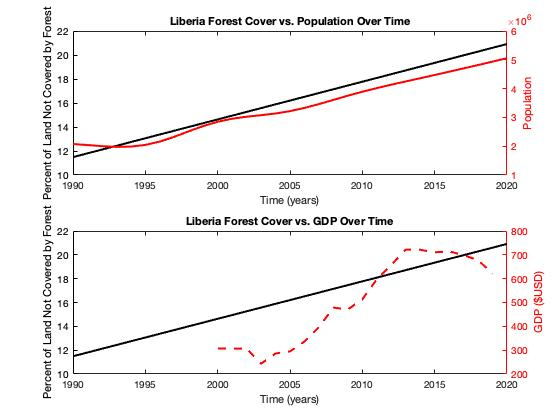
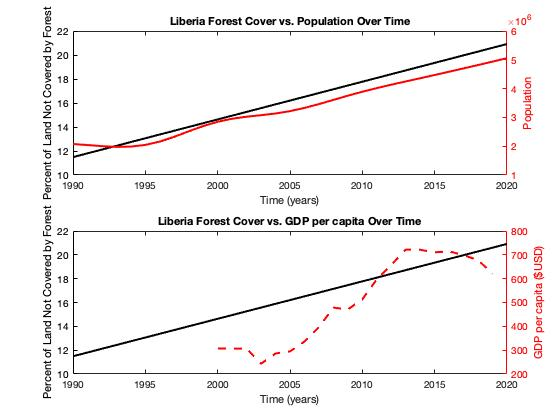
Actual? Presentation Code

Changed region(s): [[0.2732, 0.4952, 0.7589, 0.5571], [0.9411, 0.5881, 0.9714, 0.8667]]

diff --git a/Final_Project_Human_Population_and_Deforestation.m b/Final_Project_Human_Population_and_Deforestation.m
@@ -176,12 +176,12 @@ hold on
 subplot(2,1,2)
 yyaxis left
 plot(years, (100-Forest_US), 'k', 'LineWidth', 2)
-title('United States Forest Cover vs. GDP Over Time');
+title('United States Forest Cover vs. GDP per capita Over Time');
 xlabel('Time (years)');
 ylabel('Percent of Land Not Covered by Forest');
 yyaxis right
 plot(years_GDP, GDP_US, '--b', 'LineWidth', 2)
-ylabel('GDP ($USD)');
+ylabel('GDP per capita ($USD)');
 
 figure (2)
 newcolors2 = [0 0 0; 0 1 0];
@@ -201,12 +201,12 @@ hold on
 subplot(2,1,2)
 yyaxis left
 plot(years, (100-Forest_BRA), 'k', 'LineWidth', 2)
-title('Brazil Forest Cover vs. GDP Over Time');
+title('Brazil Forest Cover vs. GDP per capita Over Time');
 xlabel('Time (years)');
 ylabel('Percent of Land Not Covered by Forest');
 yyaxis right
 plot(years_GDP, GDP_BRA, '--g', 'LineWidth', 2)
-ylabel('GDP ($USD)');
+ylabel('GDP per capita ($USD)');
 
 figure (3); clf
 newcolors3 = [0 0 0; 1 0 0];
@@ -226,12 +226,12 @@ hold on
 subplot(2,1,2)
 yyaxis left
 plot(years, (100-Forest_LIB), 'k', 'LineWidth', 2)
-title('Liberia Forest Cover vs. GDP Over Time');
+title('Liberia Forest Cover vs. GDP per capita Over Time');
 xlabel('Time (years)');
 ylabel('Percent of Land Not Covered by Forest');
 yyaxis right
 plot(years_GDP, GDP_LIB, '--r', 'LineWidth', 2)
-ylabel('GDP ($USD)');
+ylabel('GDP per capita ($USD)');
 
 
 %%
@@ -279,14 +279,14 @@ title('Average GDP per capita from 1990-2019')
 ylabel('Average GDP per capita ($USD per person)')
 
 GDPAvRate = [GDP_Rate_Av_US, GDP_Rate_Av_BRA, GDP_Rate_Av_LIB];
-
+%%
 figure(7); clf
 b = bar(X, GDPAvRate)
 b.FaceColor = 'Flat';
 b.CData(2,:) = [0 1 0]
 b.CData(3,:) = [1 0 0]
-title('Average Rate of Change in GDP from 1990-2019')
-ylabel('Average Rate of Change in GDP ($USD per person per year)')
+title('Average Rate of Change in GDP per capita from 1990-2019')
+ylabel('Average Rate of Change in GDP per capita ($USD per person per year)')
 
 ForestCover1990 = [Forest_US(1), Forest_BRA(1), Forest_LIB(1)];
 
